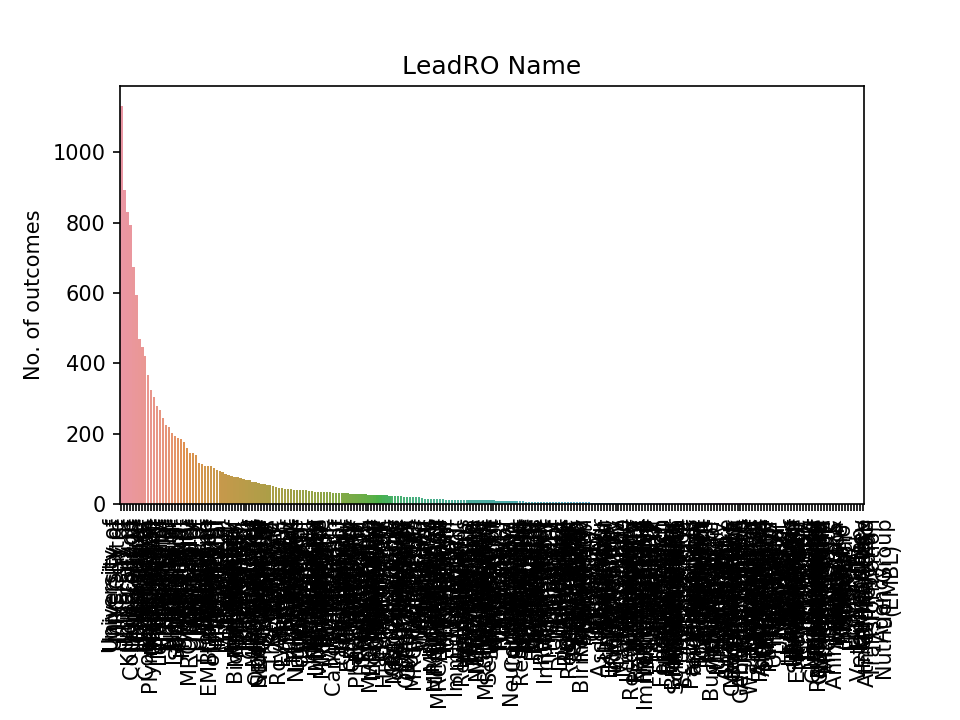
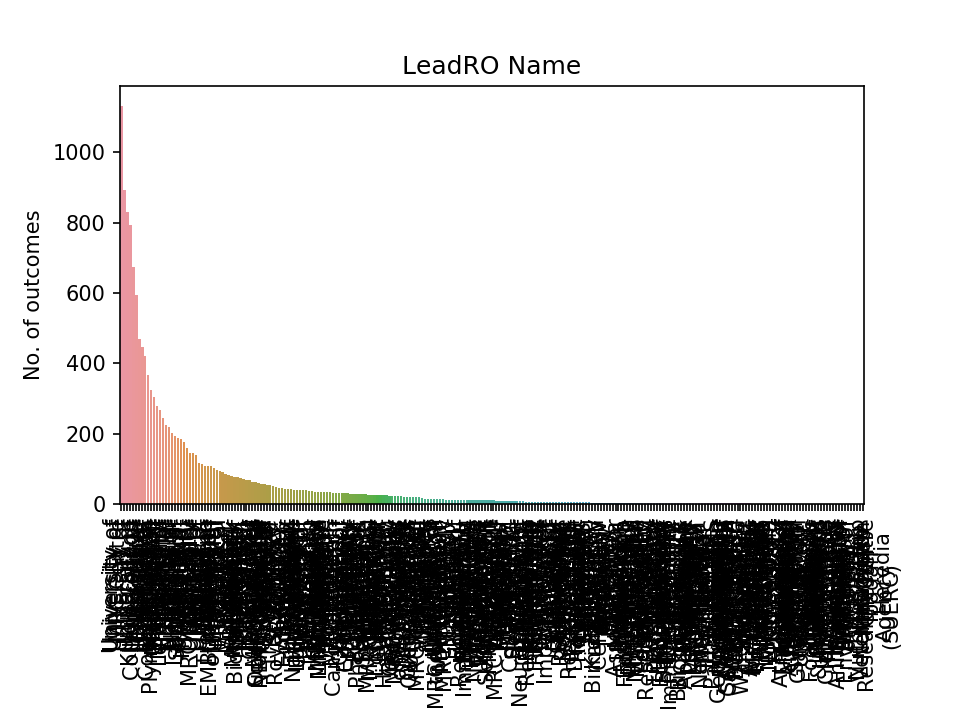
Reformatted float indexes so that graphs with years plot correctly

Changed region(s): [[0.2188, 0.7028, 0.9375, 0.9778]]

diff --git a/plot_outcome_breakdown.py b/plot_outcome_breakdown.py
@@ -87,24 +87,19 @@ def plot_basic_seaborn(dict_of_dfs, redraw):
         df_temp = dict_of_dfs[current]
         # Title's from the lookup table
         title = current
-
-        if isinstance(df_temp.index.values, float):
-            print('Found a string')
-
         labels = df_temp.index
         
-
-        print(type(labels))
-#        if labels.str.isnumeric() == True:
-#            print('Its a float')
-            # labels = lanels
-
+        # Some labels are floats, but they represent years, so they
+        # don't plot right. Hence, convert these to integers
+        if labels.dtype == float:
+            labels = labels.astype(int)
 
         # Some of the labels are really long so I cut them up
         # Note the str() function that's needed because one of
         # the sets of labels is a list of floats (which can't be split)
         labels = [ '\n'.join(wrap(str(l), 15)) for l in labels ]
 
+        # Added this to make testing quicker
         if redraw == 'y':
             # Now plot first plot
             sns.barplot(x = labels, y = df_temp[current], data = df_temp).set_title(title)
@@ -112,7 +107,7 @@ def plot_basic_seaborn(dict_of_dfs, redraw):
             plt.subplots_adjust(bottom=0.3)
             plt.ylabel('No. of outcomes')
             plt.xticks(rotation=90)
-#        plt.savefig(STOREFILENAME + 'basic_counts/' + title + '.png', format = 'png', dpi = 150)
+            plt.savefig(STOREFILENAME + 'basic_counts/' + title + '.png', format = 'png', dpi = 150)
             plt.show()
             # Funnliy enough, Seaborn seems a bit sticky. There's a weird kind of
             # colour bleed from one plot to the next. However, by explicitly clearing the 
